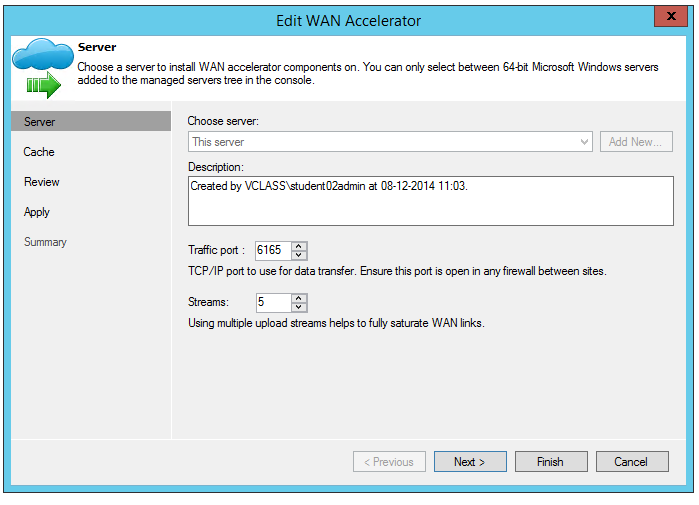
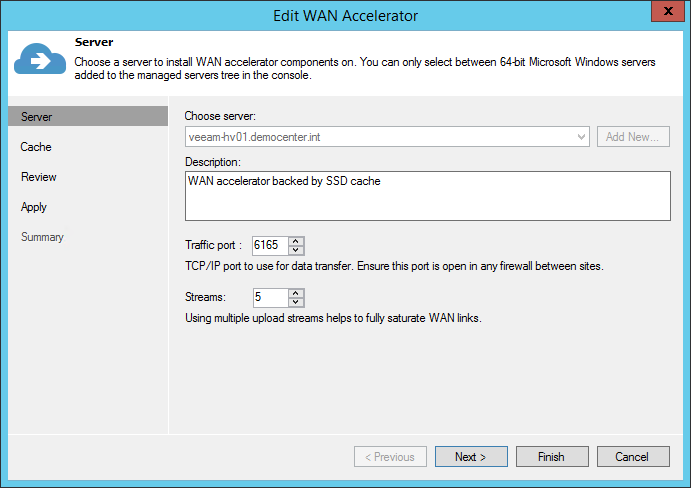
Fixed WAN accelerator section and graphics. Disabled broken module.

Changed region(s): [[0.0, 0.0, 1.0, 1.0], [0.2431, 0.584, 0.699, 0.6762]]

diff --git a/resource_planning/wan_acceleration.md b/resource_planning/wan_acceleration.md
@@ -1,7 +1,7 @@
 # WAN Acceleration
 
 By combining multiple technologies such as network compression, multi-threading, dynamic TCP window size,
-variable block size deduplication and global caching, WAN acceleration provides sufficient capability whilst the required network bandwidth is dramatically reduced when performing backup copy and replication jobs. This technology is specifically designed to accelerate Veeam job, and any other WAN acceleration technology should be disabled for Veeam traffic.
+variable block size deduplication and global caching, WAN acceleration provides sufficient capability whilst the required network bandwidth is dramatically reduced when performing Backup Copy and Replication jobs. This technology is specifically designed to accelerate Veeam job. Any other WAN acceleration technology should be disabled for Veeam traffic.
 
 To determine whether WAN acceleration is necessary in an environment, it is important to understand what particular savings can be achieved.
 
@@ -9,8 +9,8 @@ To determine whether WAN acceleration is necessary in an environment, it is impo
 
 When using WAN acceleration on links with very poor bandwidth, you may have to manually seed the initial copy to the target. For more information, refer to the [WAN Acceleration](https://helpcenter.veeam.com/backup/vsphere/wan_acceleration.html) section of the Veeam Backup & Replication User Guide.
 
-The WAN accelerator uses its own digests based on the hashes of the blocks inside the storage which means that it reads data from the backup files while re-hydrating them on the fly.The WAN accelerator
-component will then re-process data blocks with much more efficient data deduplication and compression algorithms. This is the reason why the WAN
+The WAN accelerator uses its own digests based on the hashes of the blocks inside a VM disk, which means that it reads data from the backup files and re-hydrating them on the fly, or it reads directly from the source VM in case of replication. The WAN accelerator
+component will then process those data blocks with much more efficient data deduplication and compression algorithms. This is the reason why the WAN
 accelerator consumes significant amounts of CPU and RAM resources.
 
 To determine how much data has to be transferred over the WAN link with and without WAN acceleration enabled in a backup copy job, you can compare
@@ -52,7 +52,7 @@ When planning for WAN acceleration, review the backup mode used on the primary b
 
 ![](../media/image21.png) 
 
-For example, forward incremental and forever forward incremental methods will make backup copy jobs work much faster, as read operations will be sequential rather than random.
+For example, forward incremental and forever forward incremental methods will make backup copy jobs work much faster, as read operations will be sequential rather than random. To avoid similar fragmentation and random I/O on forward incremental modes, keep [backup storage maintenance](../job_configuration/backup_job.md#storage-maintenance) enabled when possible.
 
 Though a workload penalty may not be significant, it can be a good idea to monitor the storage latency on the backup repository, especially if the reported bottleneck is *Source*. If the storage latency on the
 backup repository is high, it is recommended that you change the backup mode in order to increase the throughput of one pair of WAN accelerators.
@@ -96,7 +96,7 @@ When configuring the cache location for the source WAN accelerator, consider tha
 When configuring the WAN accelerator on the source side, consider that all VM disk data blocks are already in the source backup repository and they can simply be re-read from the source repository when needed. This is the reason why configuring the cache size on a source WAN accelerator does not matter. It is never used for caching any data. However, there are other files residing in the source WAN accelerator folder, and the file structure will be described in the following sections.
 
 ##### Hardware
-The source WAN accelerator will consume a high amount of CPU whilst re-applying the WAN optimized compression algorithm. While official system requirements are lower, the recommended configuration is 4 CPU and 8 GB RAM.
+The source WAN accelerator will consume a high amount of CPU whilst re-applying the WAN optimized compression algorithm. Recommended system configuration is 4 CPU cores and 8 GB RAM.
 
 ![Source WAN accelerator IOPS](./wan_acceleration_source_io.png)
 
@@ -126,7 +126,7 @@ cached in the target WAN accelerator. The size of this file is typically up to 2
 time for the initial data transfer to begin.
 
 ##### VeeamWAN\Digests
-On the source WAN accelerator there are the VM disk digests that take up disk space. For each processed VM disk, a disk digest file is created and placed in `\VeeamWAN\Digests\<Job ID>\<VM ID>\<Disk ID>`.
+On the source WAN accelerator there are the VM disk digests that take up disk space. For each processed VM disk, a disk digest file is created and placed in `\VeeamWAN\Digests\<JobId>_<VMId>_<DiskId>_<RestorePointID>`.
 
 **Note**: Traffic throttling rules should be created in both directions. See [Network Traffic Throttling and Multithreaded Data Transfer](https://helpcenter.veeam.com/backup/vsphere/traffic_throttling.html) for more information.
 
@@ -136,7 +136,7 @@ The following recommendations apply to configuring a target WAN accelerator:
 
 -   The cache size setting configured on the target WAN accelerator will be applied to the pair of WAN accelerators. This should be taken into account when sizing for many-to-one scenarios, as configuring 100 GB cache size will result in 100 GB multiplied by the number of pairs[^1] configured for each target WAN accelerator.
 
--   It is recommended to configure the cache size at 20 GB for each operating system[^2] processed by the WAN accelerator. 
+-   It is recommended to configure the cache size at 10 GB for each operating system[^2] processed by the WAN accelerator. 
 
 -   Once the target WAN accelerator is deployed, it is recommended to use the cache population feature (see [this section](https://helpcenter.veeam.com/backup/vsphere/wan_population.html) of the User Guide for details). When using this feature, the WAN accelerator service will scan through selected repositories for protected operating system types.
 
@@ -154,7 +154,7 @@ For each processed data block, the WAN accelerator will update the cache file (i
 
 ![Target WAN accelerator IOPS](./wan_acceleration_target_io.png)
 
-Tests show that there are no significant performance differences in using spinning disk drives as storage for the target WAN accelerator cache rather than flash storage. However, when multiple source caches are sent to a single target cache in many-to-one deployments, it is recommended to use SSD or equivalent storage for the target cache, as the I/O is now the sum of all the difference sources.
+Tests show that there are no significant performance differences in using spinning disk drives as storage for the target WAN accelerator cache rather than flash storage. However, when multiple source WAN accelerators are connected to a single target WAN accelerator (many-to-one deployment), it is recommended to use SSD or equivalent storage for the target cache, as the I/O is now the sum of all the difference sources.
 
 ##### Disk Size
 Ensure that sufficient space has been allocated for global cache on the target WAN accelerator.

diff --git a/resource_planning/vpower_nfs_and_virtual_lab.md b/resource_planning/vpower_nfs_and_virtual_lab.md
@@ -60,7 +60,7 @@ Tools on a verified VM.
 
 2.  **PING** tests are initiated according to the masqueraded network configuration. The ping is sent from the Veeam backup server using the static routes added during the job execution. Since the masquerade network is not part of the Veeam backup server's own subnet, the packet is sent to the gateway matching the Virtual Lab network (usually the virtual lab appliance).
 
-3.  **Application-specific testing** uses scripts and is enabled based on the roles assigned to a VM in the application group configuration. The built-in roles will check corresponding TCP ports for a given service, while additional testing is available for SQL Server (see next section). TCP requests are sent from the Veeam backup server, and the routing
+3.  **Application-specific testing** uses scripts and is enabled based on the roles assigned to a VM in the application group configuration. The built-in roles will check corresponding TCP ports for a given service. The built-in role for SQL Server provides additional testing (see next section), and custom scripts may be used for third party applications. Requests are sent from the Veeam backup server, and the routing
 to the virtual machine is handled by the Virtual Lab
 proxy appliance.
 
@@ -117,11 +117,13 @@ If you need to troubleshoot Virtual Lab, it is recommended to start sessions in 
 
 1.  Open up **Statistics** for a SureBackup job.
 
-2.  Right-click any VM.
+2.  Right-click the VM you want to troubleshoot.
 
 3.  Select **Start**.
 
 The SureBackup lab will now start in troubleshooting mode, which means that errors will not cause the Virtual Lab to shut down immediately.
+
+If the selected VM is in an application group, this VM and previous ones are started. If the VM is part of a linked job, the entire Application Group and the selected VM is started.
 
 This mode is especially helpful during an implementation phase while measuring application boot times via vPower NFS, or implementing custom verification scripts. When you have finished troubleshooting, you can stop the SureBackup session manually.
 
@@ -139,13 +141,11 @@ for replicas (SureReplica) as replicas will often span multiple hosts. vSphere
 Distributed Resource Scheduler (DRS) may also distribute VMs across multiple
 hosts within a cluster once they are started.
 
-{% hint style='info' %}
 **Important!** Please check the following help article and the links at the
 bottom of the webpage before you configure Virtual Labs for Distributed vSwitch:
 [Advanced Multi-Host Virtual Labs](https://helpcenter.veeam.com/backup/vsphere/surereplica_advanced_mutihost.html).
-{% endhint %}
 
-Even in environments where Distributed vSwitches are available, make sure that the Veeam backup server and the Virtual Lab proxy appliance are placed in the same port group to prevent network packets (sent to
+Even in environments where Distributed vSwitch is available, make sure that the Veeam backup server and the Virtual Lab proxy appliance are placed in the same port group to prevent network packets (sent to
 the masquerading IP subnets) from being routed.
 
 ![](../media/image17.png)
